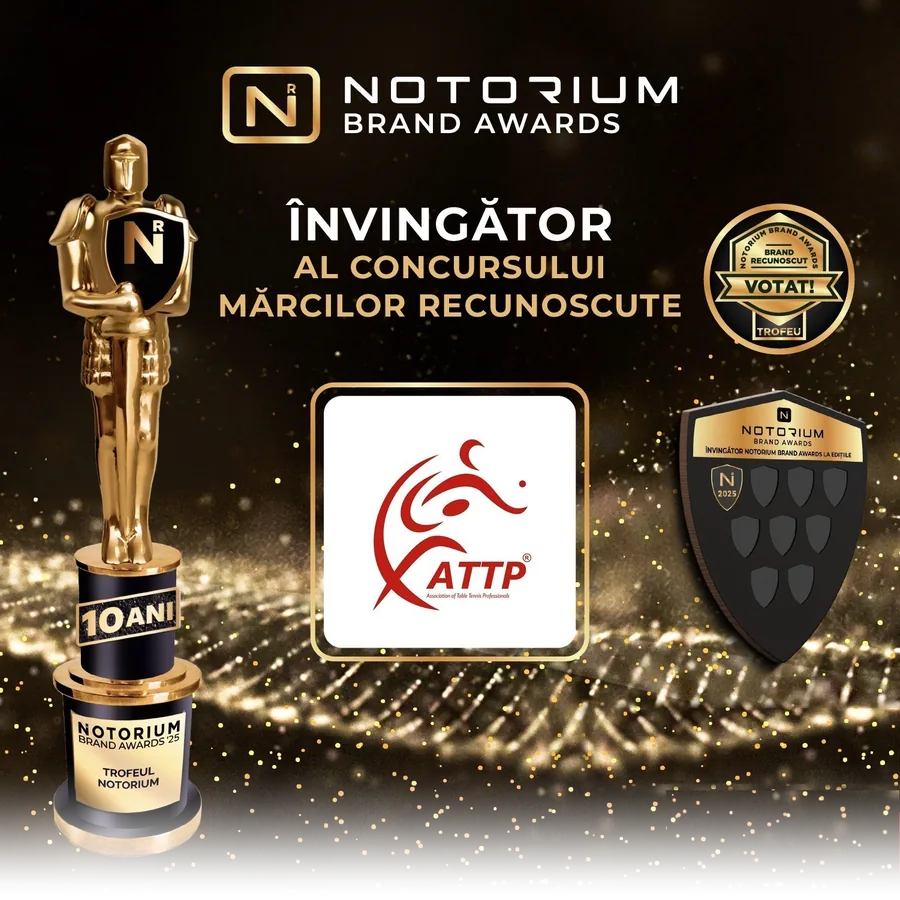
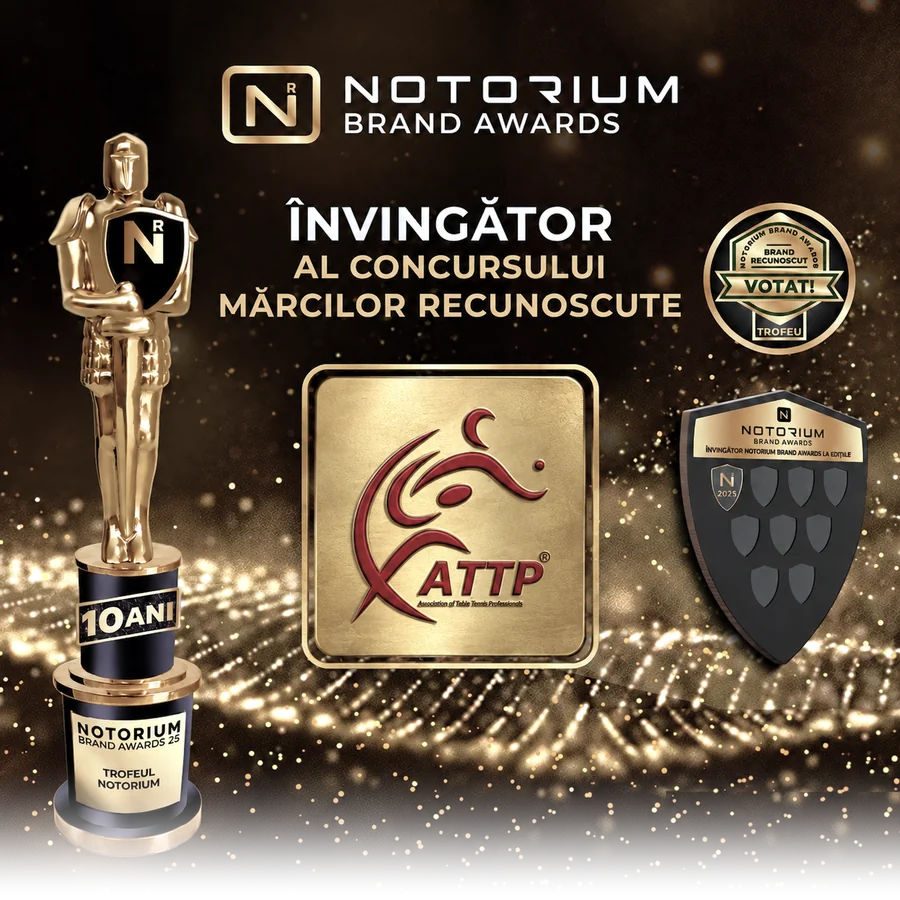
ATTP: new award hero graphic, slower hero fade, yellow accent site-wide
- Homepage hero uses the new Notorium award graphic with the gold ATTP tile.
  On desktop it is widened with a blurred extension of its own background
  so it fades in slowly from the left, under a softer dark overlay; phones
  still show the whole graphic above the headline. Image URLs are versioned.
- The orange accent (--spin) becomes a bright yellow (#F9CA50 / #FFDB7A)
  across the site, including the hard-coded orange tints. Brand and rule
  colours (YouTube red, Fair Play cards, the loader paddle) are unchanged.

diff --git a/attp/index.html b/attp/index.html
@@ -12,7 +12,7 @@
 <link rel="preconnect" href="https://fonts.googleapis.com">
 <link rel="preconnect" href="https://fonts.gstatic.com" crossorigin>
 <link href="https://fonts.googleapis.com/css2?family=Space+Grotesk:wght@500;600;700&family=Manrope:wght@400;500;600;700;800&family=JetBrains+Mono:wght@400;500;600;700&display=swap" rel="stylesheet">
-<link rel="stylesheet" href="css/style.css?v=20260919-xfix">
+<link rel="stylesheet" href="css/style.css?v=20260919-yellow">
 <script src="js/i18n.js?v=20260918-i18n"></script>
 <script src="js/load-screen-gate.js?v=20260729-rare"></script>
 <script src="https://cdn.jsdelivr.net/npm/@supabase/supabase-js@2/dist/umd/supabase.js"></script>
@@ -24,17 +24,17 @@
   }
   .hero-stage::before{
     content:''; position:absolute; inset:0; z-index:0; pointer-events:none;
-    /* Notorium Brand Awards 2025 winner graphic: square, so it fills the hero's
-       height on the right and the headline keeps the dark left side. The file
-       fades to transparent on its left and bottom edges to blend into the page. */
-    background:url('images/heroes/award-hero-1500.webp') right center / auto 100% no-repeat;
+    /* Notorium Brand Awards 2025 winner graphic, widened with a blurred extension
+       of its own background so it can fade in slowly from far left; it fills the
+       hero's height on the right and the headline keeps the darker left side. */
+    background:url('images/heroes/award-hero-wide.webp?v=2') right center / auto 100% no-repeat;
   }
   .hero-stage::after{
     content:''; position:absolute; inset:0; z-index:1; pointer-events:none;
     background:
-      linear-gradient(90deg, rgba(5,15,26,.92) 0%, rgba(5,15,26,.66) 35%, rgba(5,15,26,.1) 68%, rgba(5,15,26,.16) 100%),
+      linear-gradient(90deg, rgba(5,15,26,.86) 0%, rgba(5,15,26,.7) 22%, rgba(5,15,26,.44) 40%, rgba(5,15,26,.18) 58%, rgba(5,15,26,.05) 78%, rgba(5,15,26,.08) 100%),
       linear-gradient(180deg, rgba(5,15,26,.04) 0%, rgba(5,15,26,.08) 34%, rgba(5,15,26,.62) 80%, #071421 100%),
-      radial-gradient(700px 480px at 12% 30%, rgba(255,107,53,.13), transparent 66%);
+      radial-gradient(700px 480px at 12% 30%, rgba(249,202,80,.1), transparent 66%);
   }
   .hero{
     position:relative; z-index:2;
@@ -94,7 +94,7 @@
     position:relative; min-height:280px; margin-top:-8px; overflow:hidden;
     border-radius:var(--radius-lg);
     background:
-      radial-gradient(circle at 54% 48%,rgba(255,107,53,.18),transparent 22%),
+      radial-gradient(circle at 54% 48%,rgba(249,202,80,.18),transparent 22%),
       radial-gradient(circle at 55% 54%,rgba(41,197,194,.13),transparent 48%);
   }
   .pingpong-model{
@@ -123,7 +123,7 @@
   @media (max-width:980px){
     /* Narrow screens: the award sits whole at the top and the copy starts under it. */
     .hero-stage{ --award:min(100vw, 620px); min-height:0; }
-    .hero-stage::before{ background:url('images/heroes/award-hero-900.webp') center top / var(--award) auto no-repeat; }
+    .hero-stage::before{ background:url('images/heroes/award-hero-900.webp?v=2') center top / var(--award) auto no-repeat; }
     .hero-stage::after{
       background:linear-gradient(180deg, transparent 0, transparent calc(var(--award) * .62), #071421 calc(var(--award) * .94));
     }

diff --git a/attp/en/index.html b/attp/en/index.html
@@ -13,7 +13,7 @@
 <link rel="preconnect" href="https://fonts.googleapis.com">
 <link rel="preconnect" href="https://fonts.gstatic.com" crossorigin>
 <link href="https://fonts.googleapis.com/css2?family=Space+Grotesk:wght@500;600;700&family=Manrope:wght@400;500;600;700;800&family=JetBrains+Mono:wght@400;500;600;700&display=swap" rel="stylesheet">
-<link rel="stylesheet" href="css/style.css?v=20260919-xfix">
+<link rel="stylesheet" href="css/style.css?v=20260919-yellow">
 <script>window.__PAGE_LANG__="en";</script>
 <script src="js/i18n-en.js?v=e9013be1"></script>
 <script src="js/news-en.js?v=7dbf42ab"></script>
@@ -28,17 +28,17 @@
   }
   .hero-stage::before{
     content:''; position:absolute; inset:0; z-index:0; pointer-events:none;
-    /* Notorium Brand Awards 2025 winner graphic: square, so it fills the hero's
-       height on the right and the headline keeps the dark left side. The file
-       fades to transparent on its left and bottom edges to blend into the page. */
-    background:url('images/heroes/award-hero-1500.webp') right center / auto 100% no-repeat;
+    /* Notorium Brand Awards 2025 winner graphic, widened with a blurred extension
+       of its own background so it can fade in slowly from far left; it fills the
+       hero's height on the right and the headline keeps the darker left side. */
+    background:url('images/heroes/award-hero-wide.webp?v=2') right center / auto 100% no-repeat;
   }
   .hero-stage::after{
     content:''; position:absolute; inset:0; z-index:1; pointer-events:none;
     background:
-      linear-gradient(90deg, rgba(5,15,26,.92) 0%, rgba(5,15,26,.66) 35%, rgba(5,15,26,.1) 68%, rgba(5,15,26,.16) 100%),
+      linear-gradient(90deg, rgba(5,15,26,.86) 0%, rgba(5,15,26,.7) 22%, rgba(5,15,26,.44) 40%, rgba(5,15,26,.18) 58%, rgba(5,15,26,.05) 78%, rgba(5,15,26,.08) 100%),
       linear-gradient(180deg, rgba(5,15,26,.04) 0%, rgba(5,15,26,.08) 34%, rgba(5,15,26,.62) 80%, #071421 100%),
-      radial-gradient(700px 480px at 12% 30%, rgba(255,107,53,.13), transparent 66%);
+      radial-gradient(700px 480px at 12% 30%, rgba(249,202,80,.1), transparent 66%);
   }
   .hero{
     position:relative; z-index:2;
@@ -98,7 +98,7 @@
     position:relative; min-height:280px; margin-top:-8px; overflow:hidden;
     border-radius:var(--radius-lg);
     background:
-      radial-gradient(circle at 54% 48%,rgba(255,107,53,.18),transparent 22%),
+      radial-gradient(circle at 54% 48%,rgba(249,202,80,.18),transparent 22%),
       radial-gradient(circle at 55% 54%,rgba(41,197,194,.13),transparent 48%);
   }
   .pingpong-model{
@@ -127,7 +127,7 @@
   @media (max-width:980px){
     /* Narrow screens: the award sits whole at the top and the copy starts under it. */
     .hero-stage{ --award:min(100vw, 620px); min-height:0; }
-    .hero-stage::before{ background:url('images/heroes/award-hero-900.webp') center top / var(--award) auto no-repeat; }
+    .hero-stage::before{ background:url('images/heroes/award-hero-900.webp?v=2') center top / var(--award) auto no-repeat; }
     .hero-stage::after{
       background:linear-gradient(180deg, transparent 0, transparent calc(var(--award) * .62), #071421 calc(var(--award) * .94));
     }

diff --git a/attp/ru/index.html b/attp/ru/index.html
@@ -13,7 +13,7 @@
 <link rel="preconnect" href="https://fonts.googleapis.com">
 <link rel="preconnect" href="https://fonts.gstatic.com" crossorigin>
 <link href="https://fonts.googleapis.com/css2?family=Space+Grotesk:wght@500;600;700&family=Manrope:wght@400;500;600;700;800&family=JetBrains+Mono:wght@400;500;600;700&display=swap" rel="stylesheet">
-<link rel="stylesheet" href="css/style.css?v=20260919-xfix">
+<link rel="stylesheet" href="css/style.css?v=20260919-yellow">
 <script>window.__PAGE_LANG__="ru";</script>
 <script src="js/i18n-ru.js?v=e1152f48"></script>
 <script src="js/news-ru.js?v=6445b9f4"></script>
@@ -28,17 +28,17 @@
   }
   .hero-stage::before{
     content:''; position:absolute; inset:0; z-index:0; pointer-events:none;
-    /* Notorium Brand Awards 2025 winner graphic: square, so it fills the hero's
-       height on the right and the headline keeps the dark left side. The file
-       fades to transparent on its left and bottom edges to blend into the page. */
-    background:url('images/heroes/award-hero-1500.webp') right center / auto 100% no-repeat;
+    /* Notorium Brand Awards 2025 winner graphic, widened with a blurred extension
+       of its own background so it can fade in slowly from far left; it fills the
+       hero's height on the right and the headline keeps the darker left side. */
+    background:url('images/heroes/award-hero-wide.webp?v=2') right center / auto 100% no-repeat;
   }
   .hero-stage::after{
     content:''; position:absolute; inset:0; z-index:1; pointer-events:none;
     background:
-      linear-gradient(90deg, rgba(5,15,26,.92) 0%, rgba(5,15,26,.66) 35%, rgba(5,15,26,.1) 68%, rgba(5,15,26,.16) 100%),
+      linear-gradient(90deg, rgba(5,15,26,.86) 0%, rgba(5,15,26,.7) 22%, rgba(5,15,26,.44) 40%, rgba(5,15,26,.18) 58%, rgba(5,15,26,.05) 78%, rgba(5,15,26,.08) 100%),
       linear-gradient(180deg, rgba(5,15,26,.04) 0%, rgba(5,15,26,.08) 34%, rgba(5,15,26,.62) 80%, #071421 100%),
-      radial-gradient(700px 480px at 12% 30%, rgba(255,107,53,.13), transparent 66%);
+      radial-gradient(700px 480px at 12% 30%, rgba(249,202,80,.1), transparent 66%);
   }
   .hero{
     position:relative; z-index:2;
@@ -98,7 +98,7 @@
     position:relative; min-height:280px; margin-top:-8px; overflow:hidden;
     border-radius:var(--radius-lg);
     background:
-      radial-gradient(circle at 54% 48%,rgba(255,107,53,.18),transparent 22%),
+      radial-gradient(circle at 54% 48%,rgba(249,202,80,.18),transparent 22%),
       radial-gradient(circle at 55% 54%,rgba(41,197,194,.13),transparent 48%);
   }
   .pingpong-model{
@@ -127,7 +127,7 @@
   @media (max-width:980px){
     /* Narrow screens: the award sits whole at the top and the copy starts under it. */
     .hero-stage{ --award:min(100vw, 620px); min-height:0; }
-    .hero-stage::before{ background:url('images/heroes/award-hero-900.webp') center top / var(--award) auto no-repeat; }
+    .hero-stage::before{ background:url('images/heroes/award-hero-900.webp?v=2') center top / var(--award) auto no-repeat; }
     .hero-stage::after{
       background:linear-gradient(180deg, transparent 0, transparent calc(var(--award) * .62), #071421 calc(var(--award) * .94));
     }

diff --git a/attp/css/style.css b/attp/css/style.css
@@ -15,9 +15,9 @@
   --border:rgba(242,245,244,.09);
   --border-hi:rgba(242,245,244,.16);
 
-  --spin:#FF6B35;
-  --spin-hi:#FF8A5C;
-  --spin-dim:rgba(255,107,53,.14);
+  --spin:#F9CA50;
+  --spin-hi:#FFDB7A;
+  --spin-dim:rgba(249,202,80,.14);
 
   --rally:#29C5C2;
   --rally-hi:#5AD9D6;
@@ -59,7 +59,7 @@ body{
 body{
   background-image:
     radial-gradient(1200px 600px at 85% -10%, rgba(41,197,194,.10), transparent 60%),
-    radial-gradient(900px 500px at -10% 10%, rgba(255,107,53,.08), transparent 55%);
+    radial-gradient(900px 500px at -10% 10%, rgba(249,202,80,.08), transparent 55%);
   background-repeat:no-repeat;
 }
 /* Viewport-anchored ambient wash so long pages keep the same depth of light
@@ -68,7 +68,7 @@ body::before{
   content:''; position:fixed; inset:0; z-index:-1; pointer-events:none;
   background:
     radial-gradient(900px 620px at 88% 6%, rgba(41,197,194,.055), transparent 62%),
-    radial-gradient(760px 540px at 4% 84%, rgba(255,107,53,.045), transparent 60%);
+    radial-gradient(760px 540px at 4% 84%, rgba(249,202,80,.045), transparent 60%);
 }
 img{ max-width:100%; display:block; }
 a{ color:inherit; text-decoration:none; transition:color .18s ease; }
@@ -364,7 +364,7 @@ p{ margin:0; color:var(--chalk-dim); }
 .tag{
   display:inline-flex; align-items:center; gap:6px; font-family:var(--font-mono); font-size:11px; font-weight:700;
   letter-spacing:.06em; text-transform:uppercase; padding:5px 10px; border-radius:999px;
-  background:var(--spin-dim); color:var(--spin-hi); border:1px solid rgba(255,107,53,.35);
+  background:var(--spin-dim); color:var(--spin-hi); border:1px solid rgba(249,202,80,.35);
 }
 .tag-rally{ background:var(--rally-dim); color:var(--rally-hi); border-color:rgba(41,197,194,.35); }
 .tag-muted{ background:rgba(242,245,244,.06); color:var(--muted); border-color:var(--border-hi); }
@@ -522,7 +522,7 @@ html.show-load-screen #loadScreen{ display:flex; }
   border:1px solid var(--border-hi); border-radius:999px; background:rgba(11,26,43,.55);
   font:600 11px/1 var(--font-mono); letter-spacing:.1em; text-transform:uppercase; color:var(--chalk-dim);
 }
-.photo-hero-note::before{ content:''; width:6px; height:6px; border-radius:50%; background:var(--spin); box-shadow:0 0 12px rgba(255,107,53,.56); }
+.photo-hero-note::before{ content:''; width:6px; height:6px; border-radius:50%; background:var(--spin); box-shadow:0 0 12px rgba(249,202,80,.56); }
 @media (max-width:760px){
   .photo-hero{ min-height:0; }
   .photo-hero-img{

diff --git a/attp/players.html b/attp/players.html
@@ -9,7 +9,7 @@
 <link rel="preconnect" href="https://fonts.googleapis.com">
 <link rel="preconnect" href="https://fonts.gstatic.com" crossorigin>
 <link href="https://fonts.googleapis.com/css2?family=Space+Grotesk:wght@500;600;700&family=Manrope:wght@400;500;600;700;800&family=JetBrains+Mono:wght@400;500;600;700&display=swap" rel="stylesheet">
-<link rel="stylesheet" href="css/style.css?v=20260919-xfix">
+<link rel="stylesheet" href="css/style.css?v=20260919-yellow">
 <script src="js/i18n.js?v=20260918-i18n"></script>
 <script src="js/load-screen-gate.js?v=20260729-rare"></script>
 <script src="https://cdn.jsdelivr.net/npm/@supabase/supabase-js@2/dist/umd/supabase.js"></script>
@@ -29,7 +29,7 @@
     content:''; position:absolute; inset:0; z-index:-1; pointer-events:none;
     background:
       radial-gradient(520px 380px at 88% 4%, rgba(41,197,194,.13), transparent 70%),
-      radial-gradient(360px 300px at 68% 22%, rgba(255,107,53,.08), transparent 68%);
+      radial-gradient(360px 300px at 68% 22%, rgba(249,202,80,.08), transparent 68%);
   }
   .players-hero{ position:relative; isolation:isolate; min-height:clamp(430px,43vw,560px); overflow:hidden; }
   .players-hero-art{
@@ -56,7 +56,7 @@
     border:1px solid rgba(116,207,210,.23); border-radius:999px; background:rgba(8,26,45,.44);
     color:var(--chalk-dim); font-family:var(--font-mono); font-size:11px; letter-spacing:.05em; text-transform:uppercase;
   }
-  .players-hero-note::before{ content:''; width:6px; height:6px; border-radius:50%; background:var(--spin); box-shadow:0 0 12px rgba(255,107,53,.56); }
+  .players-hero-note::before{ content:''; width:6px; height:6px; border-radius:50%; background:var(--spin); box-shadow:0 0 12px rgba(249,202,80,.56); }
   .players-list-section{ padding-top:4px; }
   @media (max-width:820px){
     .players-hero{ min-height:640px; }

diff --git a/attp/en/players.html b/attp/en/players.html
@@ -10,7 +10,7 @@
 <link rel="preconnect" href="https://fonts.googleapis.com">
 <link rel="preconnect" href="https://fonts.gstatic.com" crossorigin>
 <link href="https://fonts.googleapis.com/css2?family=Space+Grotesk:wght@500;600;700&family=Manrope:wght@400;500;600;700;800&family=JetBrains+Mono:wght@400;500;600;700&display=swap" rel="stylesheet">
-<link rel="stylesheet" href="css/style.css?v=20260919-xfix">
+<link rel="stylesheet" href="css/style.css?v=20260919-yellow">
 <script>window.__PAGE_LANG__="en";</script>
 <script src="js/i18n-en.js?v=e9013be1"></script>
 <script src="js/i18n.js?v=20260918-i18n"></script>
@@ -32,7 +32,7 @@
     content:''; position:absolute; inset:0; z-index:-1; pointer-events:none;
     background:
       radial-gradient(520px 380px at 88% 4%, rgba(41,197,194,.13), transparent 70%),
-      radial-gradient(360px 300px at 68% 22%, rgba(255,107,53,.08), transparent 68%);
+      radial-gradient(360px 300px at 68% 22%, rgba(249,202,80,.08), transparent 68%);
   }
   .players-hero{ position:relative; isolation:isolate; min-height:clamp(430px,43vw,560px); overflow:hidden; }
   .players-hero-art{
@@ -59,7 +59,7 @@
     border:1px solid rgba(116,207,210,.23); border-radius:999px; background:rgba(8,26,45,.44);
     color:var(--chalk-dim); font-family:var(--font-mono); font-size:11px; letter-spacing:.05em; text-transform:uppercase;
   }
-  .players-hero-note::before{ content:''; width:6px; height:6px; border-radius:50%; background:var(--spin); box-shadow:0 0 12px rgba(255,107,53,.56); }
+  .players-hero-note::before{ content:''; width:6px; height:6px; border-radius:50%; background:var(--spin); box-shadow:0 0 12px rgba(249,202,80,.56); }
   .players-list-section{ padding-top:4px; }
   @media (max-width:820px){
     .players-hero{ min-height:640px; }

diff --git a/attp/ru/players.html b/attp/ru/players.html
@@ -10,7 +10,7 @@
 <link rel="preconnect" href="https://fonts.googleapis.com">
 <link rel="preconnect" href="https://fonts.gstatic.com" crossorigin>
 <link href="https://fonts.googleapis.com/css2?family=Space+Grotesk:wght@500;600;700&family=Manrope:wght@400;500;600;700;800&family=JetBrains+Mono:wght@400;500;600;700&display=swap" rel="stylesheet">
-<link rel="stylesheet" href="css/style.css?v=20260919-xfix">
+<link rel="stylesheet" href="css/style.css?v=20260919-yellow">
 <script>window.__PAGE_LANG__="ru";</script>
 <script src="js/i18n-ru.js?v=e1152f48"></script>
 <script src="js/i18n.js?v=20260918-i18n"></script>
@@ -32,7 +32,7 @@
     content:''; position:absolute; inset:0; z-index:-1; pointer-events:none;
     background:
       radial-gradient(520px 380px at 88% 4%, rgba(41,197,194,.13), transparent 70%),
-      radial-gradient(360px 300px at 68% 22%, rgba(255,107,53,.08), transparent 68%);
+      radial-gradient(360px 300px at 68% 22%, rgba(249,202,80,.08), transparent 68%);
   }
   .players-hero{ position:relative; isolation:isolate; min-height:clamp(430px,43vw,560px); overflow:hidden; }
   .players-hero-art{
@@ -59,7 +59,7 @@
     border:1px solid rgba(116,207,210,.23); border-radius:999px; background:rgba(8,26,45,.44);
     color:var(--chalk-dim); font-family:var(--font-mono); font-size:11px; letter-spacing:.05em; text-transform:uppercase;
   }
-  .players-hero-note::before{ content:''; width:6px; height:6px; border-radius:50%; background:var(--spin); box-shadow:0 0 12px rgba(255,107,53,.56); }
+  .players-hero-note::before{ content:''; width:6px; height:6px; border-radius:50%; background:var(--spin); box-shadow:0 0 12px rgba(249,202,80,.56); }
   .players-list-section{ padding-top:4px; }
   @media (max-width:820px){
     .players-hero{ min-height:640px; }

diff --git a/attp/about.html b/attp/about.html
@@ -9,7 +9,7 @@
 <link rel="preconnect" href="https://fonts.googleapis.com">
 <link rel="preconnect" href="https://fonts.gstatic.com" crossorigin>
 <link href="https://fonts.googleapis.com/css2?family=Space+Grotesk:wght@500;600;700&family=Manrope:wght@400;500;600;700;800&family=JetBrains+Mono:wght@400;500;600;700&display=swap" rel="stylesheet">
-<link rel="stylesheet" href="css/style.css?v=20260919-xfix">
+<link rel="stylesheet" href="css/style.css?v=20260919-yellow">
 <script src="js/i18n.js?v=20260918-i18n"></script>
 <script src="js/load-screen-gate.js?v=20260729-rare"></script>
 <script src="https://cdn.jsdelivr.net/npm/@supabase/supabase-js@2/dist/umd/supabase.js"></script>

diff --git a/attp/contact.html b/attp/contact.html
@@ -9,7 +9,7 @@
 <link rel="preconnect" href="https://fonts.googleapis.com">
 <link rel="preconnect" href="https://fonts.gstatic.com" crossorigin>
 <link href="https://fonts.googleapis.com/css2?family=Space+Grotesk:wght@500;600;700&family=Manrope:wght@400;500;600;700;800&family=JetBrains+Mono:wght@400;500;600;700&display=swap" rel="stylesheet">
-<link rel="stylesheet" href="css/style.css?v=20260919-xfix">
+<link rel="stylesheet" href="css/style.css?v=20260919-yellow">
 <script src="js/i18n.js?v=20260918-i18n"></script>
 <script src="js/load-screen-gate.js?v=20260729-rare"></script>
 <script src="https://cdn.jsdelivr.net/npm/@supabase/supabase-js@2/dist/umd/supabase.js"></script>

diff --git a/attp/documents.html b/attp/documents.html
@@ -9,7 +9,7 @@
 <link rel="preconnect" href="https://fonts.googleapis.com">
 <link rel="preconnect" href="https://fonts.gstatic.com" crossorigin>
 <link href="https://fonts.googleapis.com/css2?family=Space+Grotesk:wght@500;600;700&family=Manrope:wght@400;500;600;700;800&family=JetBrains+Mono:wght@400;500;600;700&display=swap" rel="stylesheet">
-<link rel="stylesheet" href="css/style.css?v=20260919-xfix">
+<link rel="stylesheet" href="css/style.css?v=20260919-yellow">
 <script src="js/i18n.js?v=20260918-i18n"></script>
 <script src="js/load-screen-gate.js?v=20260729-rare"></script>
 <script src="https://cdn.jsdelivr.net/npm/@supabase/supabase-js@2/dist/umd/supabase.js"></script>

diff --git a/attp/gallery.html b/attp/gallery.html
@@ -9,7 +9,7 @@
 <link rel="preconnect" href="https://fonts.googleapis.com">
 <link rel="preconnect" href="https://fonts.gstatic.com" crossorigin>
 <link href="https://fonts.googleapis.com/css2?family=Space+Grotesk:wght@500;600;700&family=Manrope:wght@400;500;600;700;800&family=JetBrains+Mono:wght@400;500;600;700&display=swap" rel="stylesheet">
-<link rel="stylesheet" href="css/style.css?v=20260919-xfix">
+<link rel="stylesheet" href="css/style.css?v=20260919-yellow">
 <script src="js/i18n.js?v=20260918-i18n"></script>
 <script src="js/load-screen-gate.js?v=20260729-rare"></script>
 <script src="https://cdn.jsdelivr.net/npm/@supabase/supabase-js@2/dist/umd/supabase.js"></script>

diff --git a/attp/news-article.html b/attp/news-article.html
@@ -8,7 +8,7 @@
 <link rel="preconnect" href="https://fonts.googleapis.com">
 <link rel="preconnect" href="https://fonts.gstatic.com" crossorigin>
 <link href="https://fonts.googleapis.com/css2?family=Space+Grotesk:wght@500;600;700&family=Manrope:wght@400;500;600;700;800&family=JetBrains+Mono:wght@400;500;600;700&display=swap" rel="stylesheet">
-<link rel="stylesheet" href="css/style.css?v=20260919-xfix">
+<link rel="stylesheet" href="css/style.css?v=20260919-yellow">
 <script src="js/i18n.js?v=20260918-i18n"></script>
 <script src="js/load-screen-gate.js?v=20260729-rare"></script>
 <script src="https://cdn.jsdelivr.net/npm/@supabase/supabase-js@2/dist/umd/supabase.js"></script>
